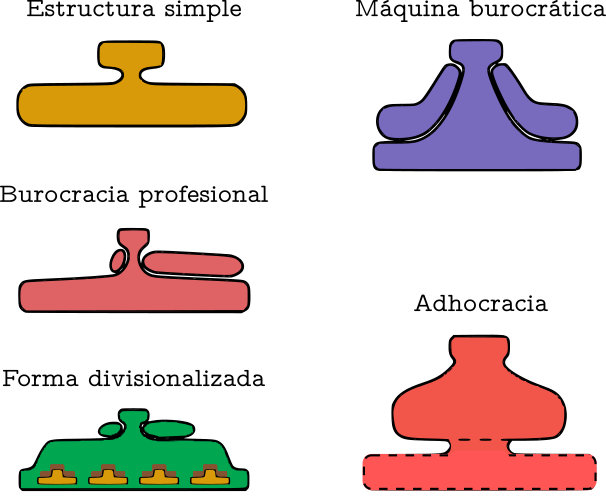
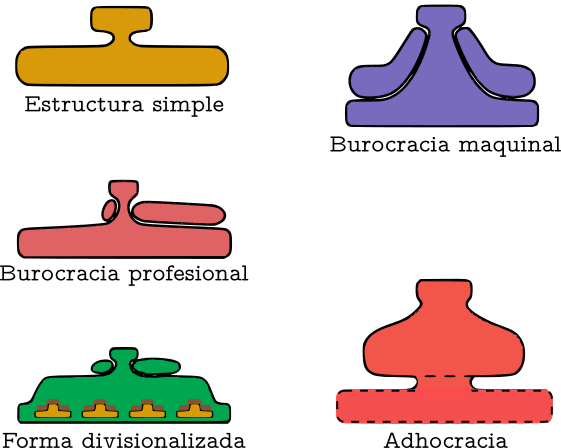
Actualización Organizaciones ST1

diff --git a/PsiOrg-ST1.html b/PsiOrg-ST1.html
@@ -38,7 +38,7 @@
     <div class="slides">
 <section data-state="no-toc-progress">
     <h1 class="title .no-toc-progress">Psicologia de les Organitzacions</h1>
-<h4 class="author">ST1</h4>
+<h4 class="author">¿Qué son las organizaciones?: Estructura y crecimiento</h4>
     <h4 class="author">Juan Muñoz</h4>
     <h6 class="author">Universitat Autònoma de Barcelona</h6>
     <h6 class="author"></h6>
@@ -47,20 +47,21 @@
     <div style="position: absolute; bottom: -50px; margin-left: 0px; width: 100%; <center><a rel="license" href="http://creativecommons.org/licenses/by/4.0/"><img alt="Llicència de Creative Commons" style="border-width:0" src="img/cc-by.png" /></a></center>
     </div>
 </section>
-<section id="las-organizaciones-existen-para" class="slide level2">
-<h2>Las organizaciones existen para</h2>
-<div>
-<ul>
-<li>Aunar los recursos para lograr los objetivos y resultados deseados</li>
-<li>Producir bienes y servicios de manera eficiente</li>
-<li>Facilitar la innovación</li>
-<li>Utilizar las tecnologías modernas de fabricación e información</li>
-<li>Adaptarse e influir en un entorno cambiante</li>
-<li>Crear valor para los propietarios, clientes y empleados</li>
-<li>Dar cabida a los desafíos actuales de la diversidad, la ética, y la motivación y la coordinación de los empleados</li>
-</ul>
-</div>
-<p><span class="citation" data-cites="daft-Organizationtheory-2010">Daft (2010, p. 14)</span></p>
+<section class="slide level2">
+
+<!-- ## Las organizaciones existen para
+
+::: nonincremental
+- Aunar los recursos para lograr los objetivos y resultados deseados
+- Producir bienes y servicios de manera eficiente
+- Facilitar la innovación
+- Utilizar las tecnologías modernas de fabricación e información
+- Adaptarse e influir en un entorno cambiante
+- Crear valor para los propietarios, clientes y empleados
+- Dar cabida a los desafíos actuales de la diversidad, la ética, y la motivación y la coordinación de los empleados
+:::
+
+@daft-Organizationtheory-2010[, p. 14] -->
 </section>
 <section id="descripción" class="slide level2">
 <h2>Descripción</h2>
@@ -94,6 +95,12 @@
 </ul>
 </aside>
 </section>
+<section id="mecanismos-de-coordinación" class="slide level2">
+<h2>Mecanismos de coordinación</h2>
+<figure>
+<img data-src="imagenes-organizaciones/MecanismosCoordinacion.png" alt="" /><figcaption><span class="citation" data-cites="mintzberg-Mintzbergdireccion-1991">Mintzberg (1991, p. 17)</span></figcaption>
+</figure>
+</section>
 <section id="tipos-de-organizaciones" class="slide level2">
 <h2>Tipos de organizaciones</h2>
 <figure>
@@ -104,73 +111,67 @@
 <h2>Configuraciones organizacionales</h2>
 <table>
 <colgroup>
-<col style="width: 14%" />
 <col style="width: 20%" />
+<col style="width: 25%" />
+<col style="width: 29%" />
 <col style="width: 23%" />
-<col style="width: 18%" />
-<col style="width: 23%" />
+<col style="width: 1%" />
 </colgroup>
 <thead>
 <tr class="header">
-<th></th>
-<th>CONFIGURACIÓN</th>
-<th>MECANISMO DE COORDINACIÓN</th>
-<th>PARTE CLAVE DE LA ORGANIZACIÓN</th>
-<th>TIPO DE DESCENTRALIZACIÓN</th>
+<th style="text-align: left;"></th>
+<th style="text-align: left;">CONFIGURACIÓN</th>
+<th style="text-align: left;">MECANISMO DE COORDINACIÓN</th>
+<th style="text-align: left;">PARTE CLAVE DE LA ORGANIZACIÓN</th>
+<th style="text-align: left;">TIPO DE DESCENTRALIZACIÓN</th>
 </tr>
 </thead>
 <tbody>
 <tr class="odd">
-<td><strong>Estructura simple</strong></td>
-<td>Organización empresarial</td>
-<td>Supervisión directa</td>
-<td>Ápice estratégico</td>
-<td>Centralización horizontal y vertical</td>
+<td style="text-align: left;"><strong>Estructura simple</strong></td>
+<td style="text-align: left;">Organización empresarial</td>
+<td style="text-align: left;">Supervisión directa</td>
+<td style="text-align: left;">Ápice estratégico</td>
+<td style="text-align: left;">Centralización horizontal y vertical</td>
 </tr>
 <tr class="even">
-<td><strong>Burocracia maquinal</strong></td>
-<td>Organización máquina -industrial-</td>
-<td>Estandarización de procesos de trabajo</td>
-<td>Tecnoestructura</td>
-<td>Descentralización horizontal limitada</td>
+<td style="text-align: left;"><strong>Burocracia maquinal</strong></td>
+<td style="text-align: left;">Organización máquina -industrial-</td>
+<td style="text-align: left;">Estandarización de procesos de trabajo</td>
+<td style="text-align: left;">Tecnoestructura</td>
+<td style="text-align: left;">Descentralización horizontal limitada</td>
 </tr>
 <tr class="odd">
-<td><strong>Burocracia profesional</strong></td>
-<td>Organización profesional</td>
-<td>Estandarización de habilidades</td>
-<td>Núcleo de operaciones</td>
-<td>Descentralización</td>
+<td style="text-align: left;"><strong>Burocracia profesional</strong></td>
+<td style="text-align: left;">Organización profesional</td>
+<td style="text-align: left;">Estandarización de habilidades</td>
+<td style="text-align: left;">Núcleo de operaciones</td>
+<td style="text-align: left;">Descentralización</td>
 </tr>
 <tr class="even">
-<td><strong>Forma divisionalizada</strong></td>
-<td>Organización diversificada</td>
-<td>Estandarización de producción</td>
-<td>Linea intermedia</td>
-<td>Descentralización vertical limitada</td>
+<td style="text-align: left;"><strong>Forma divisionalizada</strong></td>
+<td style="text-align: left;">Organización diversificada</td>
+<td style="text-align: left;">Estandarización de producción</td>
+<td style="text-align: left;">Linea intermedia</td>
+<td style="text-align: left;">Descentralización vertical limitada</td>
 </tr>
 <tr class="odd">
-<td><strong>Adhocracia</strong></td>
-<td>Organización innovadora</td>
-<td>Adaptación mutua</td>
-<td>Personal de apoyo</td>
-<td>Descentralización selectiva</td>
+<td style="text-align: left;"><strong>Adhocracia</strong></td>
+<td style="text-align: left;">Organización innovadora</td>
+<td style="text-align: left;">Adaptación mutua</td>
+<td style="text-align: left;">Personal de apoyo</td>
+<td style="text-align: left;">Descentralización selectiva</td>
 </tr>
 <tr class="even">
-<td><strong>Misionera</strong></td>
-<td>Organización misionera</td>
-<td>Estandarización de normas</td>
-<td>Ideología</td>
-<td>Descentralización</td>
-</tr>
-<tr class="odd">
-<td></td>
-<td>Organización política</td>
-<td>Ninguna</td>
-<td>Ninguna</td>
-<td>Varia</td>
+<td style="text-align: left;"><strong>Misionera</strong></td>
+<td style="text-align: left;">Organización misionera</td>
+<td style="text-align: left;">Estandarización de normas</td>
+<td style="text-align: left;">Ideología</td>
+<td style="text-align: left;">Descentralización</td>
 </tr>
 </tbody>
 </table>
+<!-- |                            | Organización política             | Ninguna                                | Ninguna                        | Varia                                 | -->
 </section>
 <section id="la-curva-de-greiner" class="title-slide slide level1"><h1>La curva de Greiner</h1><figure>
 <img data-src="imagenes-organizaciones/FasesGreiner.png" width="600" alt="" /><figcaption><span class="citation" data-cites="greiner-EvolutionRevolution-1994">Greiner (1994)</span></figcaption>
@@ -190,6 +191,9 @@
 </div>
 <div id="ref-kottke-OrganizationalStructure-2007">
 <p>Kottke, J. L., &amp; Agars, M. D. (2007). Organizational Structure. In S. G. Rogelberg (Ed.), <em>Encyclopedia of industrial and organizational psychology</em> (pp. 585–589). Thousand Oaks, Calif: SAGE.</p>
+</div>
+<div id="ref-mintzberg-Mintzbergdireccion-1991">
+<p>Mintzberg, H. (1991). <em>Mintzberg y la dirección</em>. Madrid: Ediciones Díaz de Santos.</p>
 </div>
 <div id="ref-mintzberg-Structurefives-1993">
 <p>Mintzberg, H. (1993). <em>Structure in fives: Designing effective organizations</em> (2. rev). Upper Saddle River, NJ: Prentice Hall.</p>

diff --git a/PsiOrg-ST1.md b/PsiOrg-ST1.md
@@ -4,14 +4,14 @@ author:
 - name: Juan Muñoz
   affiliation: Universitat Autònoma de Barcelona
 tags: [Conductas colectivas]
-tema: "ST1"
+tema: "¿Qué son las organizaciones?: Estructura y crecimiento"
 url: "http:/juan.psicologiasocial.eu"
 bibliography: diapos.bib
 csl: apa.csl
 lateral-menu: 'True'
 ...
 
-## Las organizaciones existen para
+<!-- ## Las organizaciones existen para
 
 ::: nonincremental
 - Aunar los recursos para lograr los objetivos y resultados deseados
@@ -23,8 +23,7 @@ lateral-menu: 'True'
 - Dar cabida a los desafíos actuales de la diversidad, la ética, y la motivación y la coordinación de los empleados
 :::
 
-
-@daft-Organizationtheory-2010[, p. 14]
+@daft-Organizationtheory-2010[, p. 14] -->
 
 ## Descripción
 
@@ -56,21 +55,28 @@ Personal de apoyo: no directamente vinculados con la actividad principal.
 Ideología: fuerza motora para la cooperación en la organización.
 :::
 
+## Mecanismos de coordinación
+
+![ @mintzberg-Mintzbergdireccion-1991[17]](imagenes-organizaciones/MecanismosCoordinacion.png)
+
 ## Tipos de organizaciones
 
 ![Adaptado de @mintzberg-Structurefives-1993](imagenes-organizaciones/TiposOrganizaciones.png)
 
 ## Configuraciones organizacionales {#configuraciones .peque}
 
-|                      | CONFIGURACIÓN                     | MECANISMO DE COORDINACIÓN               | PARTE CLAVE DE LA ORGANIZACIÓN | TIPO DE DESCENTRALIZACIÓN              |
-|-------------------------|-----------------------------------|-----------------------------------------|--------------------------------|----------------------------------------|
-| **Estructura simple**       | Organización empresarial          | Supervisión directa                     | Ápice estratégico              | Centralización horizontal y vertical  |
-| **Burocracia maquinal**     | Organización máquina -industrial- | Estandarización de procesos de trabajo | Tecnoestructura                | Descentralización horizontal limitada |
-| **Burocracia profesional** | Organización profesional          | Estandarización de habilidades           | Núcleo de operaciones          | Descentralización                      |
-| **Forma divisionalizada**  | Organización diversificada        | Estandarización de producción           | Linea intermedia                | Descentralización vertical limitada    |
-| **Adhocracia**              | Organización innovadora           | Adaptación mutua                        | Personal de apoyo              | Descentralización selectiva            |
-| **Misionera**               | Organización misionera            | Estandarización de normas               | Ideología                      | Descentralización                     |
-|                         | Organización política             | Ninguna                                 | Ninguna                        | Varia                                  |
+|                            | CONFIGURACIÓN                     | MECANISMO DE COORDINACIÓN              | PARTE CLAVE DE LA ORGANIZACIÓN | TIPO DE DESCENTRALIZACIÓN |
+|:---------------------------|:----------------------------------|:---------------------------------------|:-------------------------------|:-|
+| **Estructura simple**      | Organización empresarial          | Supervisión directa                    | Ápice estratégico              | Centralización horizontal y vertical |
+| **Burocracia maquinal**    | Organización máquina -industrial- | Estandarización de procesos de trabajo | Tecnoestructura                | Descentralización horizontal limitada |
+| **Burocracia profesional** | Organización profesional          | Estandarización de habilidades         | Núcleo de operaciones          | Descentralización |
+| **Forma divisionalizada**  | Organización diversificada        | Estandarización de producción          | Linea intermedia               | Descentralización vertical limitada |
+| **Adhocracia**             | Organización innovadora           | Adaptación mutua                       | Personal de apoyo              | Descentralización selectiva |
+| **Misionera**              | Organización misionera            | Estandarización de normas              | Ideología                      | Descentralización |
+
+
+<!-- |                            | Organización política             | Ninguna                                | Ninguna                        | Varia                                 | -->
+
 
 # La curva de Greiner
 
